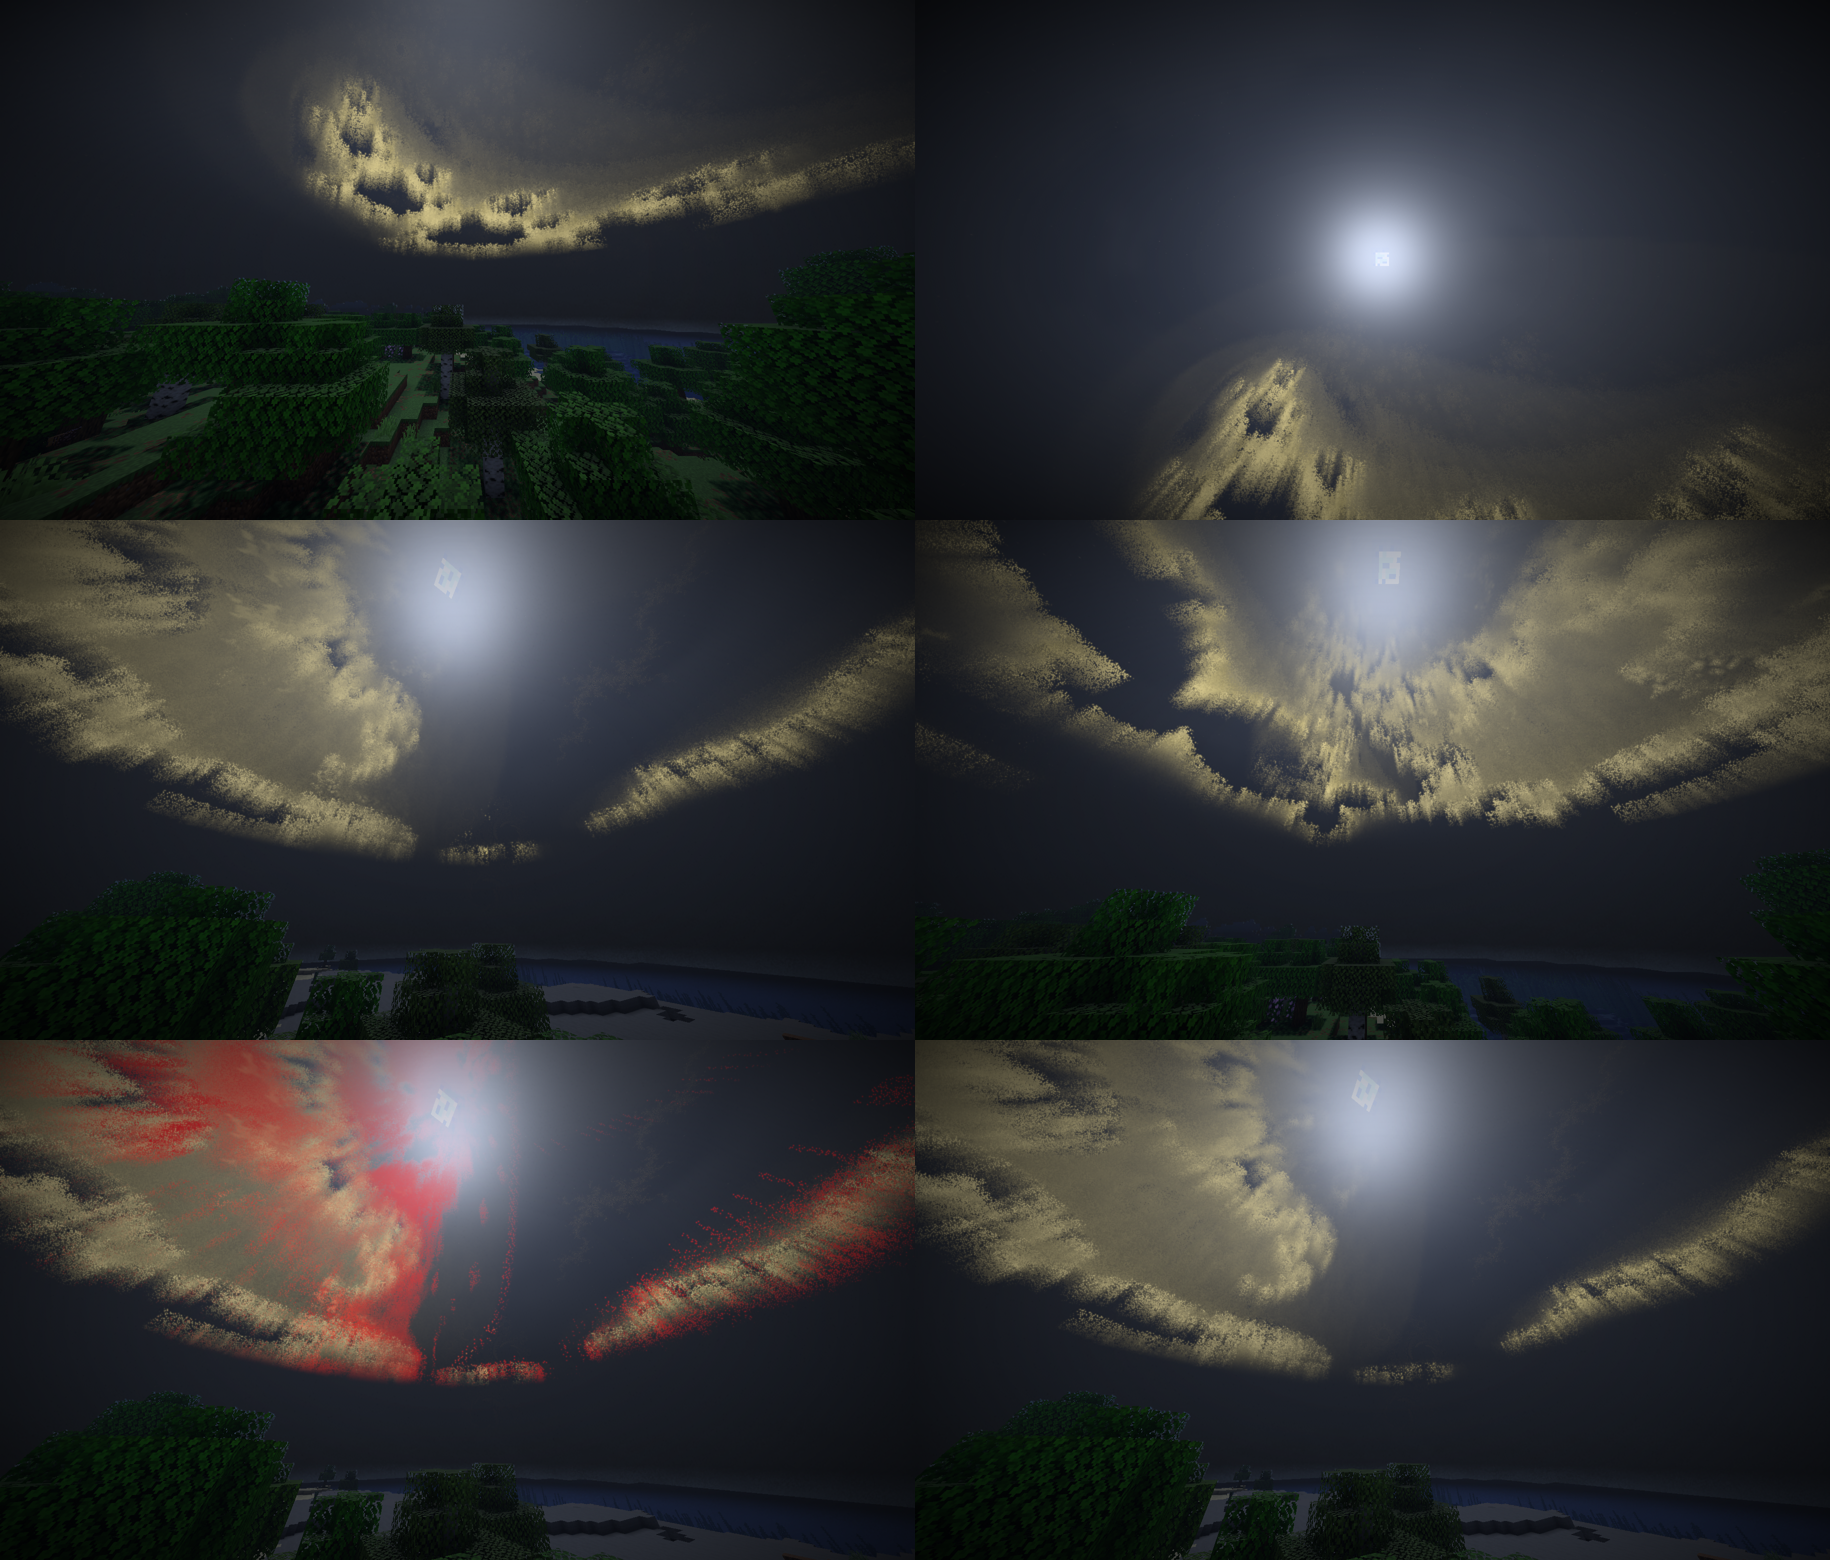
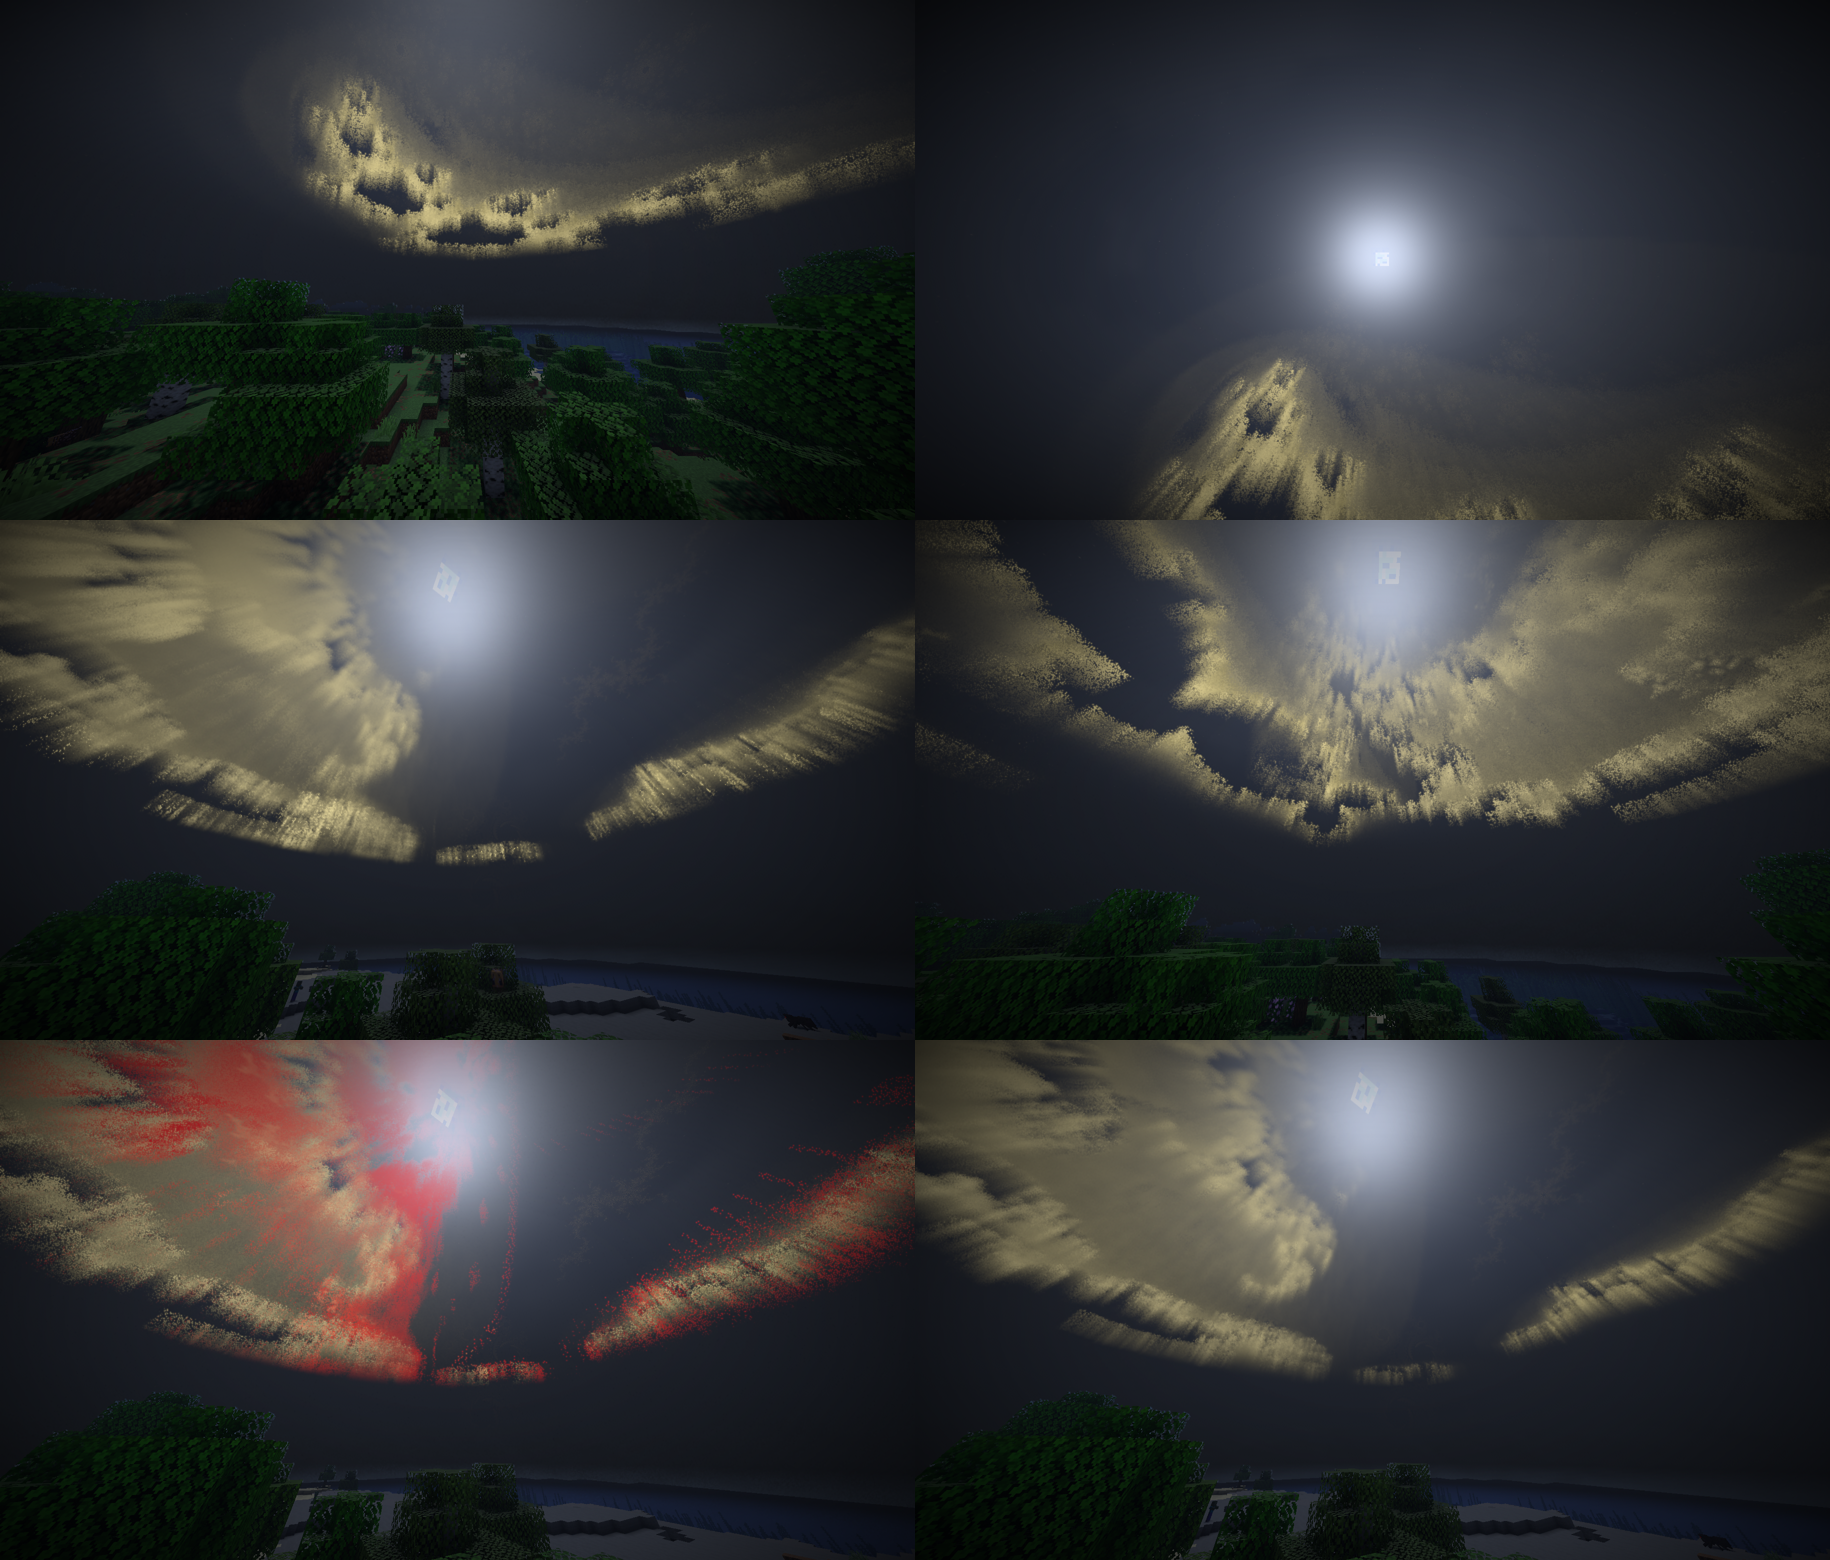
06: ventana al cielo con el color del cono (respuesta de la especificación)
Cada muestra del tramo acumula el color del mapa en su punto pesado por despeje
× largo; al final se normaliza y se suma con el peso de Vulpe, escalado por la
intensidad de las cortinas. Se ven trazos del fractal dentro de los conos.
Citas de la especificación actualizadas al historial reescrito.

diff --git a/docs/efectos/aurora.md b/docs/efectos/aurora.md
@@ -62,11 +62,15 @@ de la especificación tomada literal, no se veía nada en nuestra escala de luz;
 
 ### Ventana
 
-La ventana suma el color del mapa en la dirección de vista; ese color es la radiancia del fractal del cielo y
-sumado tal cual no se notaba: se multiplica por `VOL_AURORA_VENTANA_ESCALA` = 12. **Aun así no se aprecia**
-(diferencia media entre «Aurora: sin ventana» y la normal: 2,7/255, casi todo ruido). Duda para A: a través
-de un cono la dirección de vista cae en zonas del disco sin fractal; ¿el color de la ventana es el del mapa en
-la dirección de vista o en el punto del cono?
+Respuesta de A (especificación 06 §7, `8873b86`): con la dirección de vista el mapa se lee lejos de la línea de la
+que baja el cono, donde no hay fractal; por eso no se veía. Ahora se usa **el color del cono**: durante el tramo,
+cada muestra acumula el color del mapa en su punto (`rel.xz / R`, la misma lectura que la luz de la cortina)
+pesado por despeje × largo, y al final se normaliza por la ventana. El peso es el de Vulpe (ventana / largo del
+cono × 2 × ruido del despeje × noche), sumado sin la transmitancia de delante, y el color se escala por la
+intensidad de las cortinas × 0,6 (`VOL_AURORA_VENTANA_ESCALA`), como propone A, para que los filamentos dentro del
+cono no queden por debajo de la niebla. **Visto:** trazos y puntos brillantes del fractal dentro de los conos,
+sobre la cortina (diferencia con «sin ventana» de hasta 135/255, media 4,4; antes 2,7 de puro ruido). Da además
+los «puntos y filamentos brillantes sobre una cortina más oscura» que el gestor echaba en falta.
 
 ### Depuración
 
@@ -92,4 +96,5 @@ Noche mirando la figura (1830×1040, RTX 3050 Ti portátil): 6,09 ms de GPU con 
   200–300 bloques de altura, se ve muy escorzada y se lee más como una lámina (`aurora-sur.png`).
 - **Conos** (`aurora-conos.png`): zonas y rayos rojos que bajan desde tramos de la línea del fractal, como en
   `dbg_conos.png`.
-- **No visto:** la ventana al cielo (ver §Ventana) y el suelo medido del mod nativo.
+- **Ventana** (`aurora-sin-ventana.png` frente a `aurora-semilla3.png`): ver §Ventana.
+- **No visto:** el suelo medido del mod nativo.

diff --git a/docs/observaciones-del-gestor.md b/docs/observaciones-del-gestor.md
@@ -55,7 +55,7 @@ Respuestas de la API (comprobadas por el gestor en el renderizador; para el 07):
 - El pase translúcido mezcla `Surface.color` con alfa estándar (src·a + dst·(1−a)), descarta a < 0,01 y
   luego aplica la niebla del motor si no está apagada.
 
-Respuestas de A en la especificación (commit 9aa2fa7):
+Respuestas de A en la especificación (commit dd519dd, antes 9aa2fa7: el gestor reescribió el historial de la especificación; tabla en `../vulpe-horizon-spec/historial-reescrito.md`):
 - **Presupuesto de opciones** (`convenciones.md`): 48 imprescindibles por subsistema; lo demás, constante.
 - **Niebla nocturna:** tapa el cielo casi entero **a propósito** (la aurora, 06, existe por eso):
   transmitancia al cenit ≈ 10–15 % desde Y ≈ 70, < 3 % al horizonte; más oscura que el cielo nocturno
